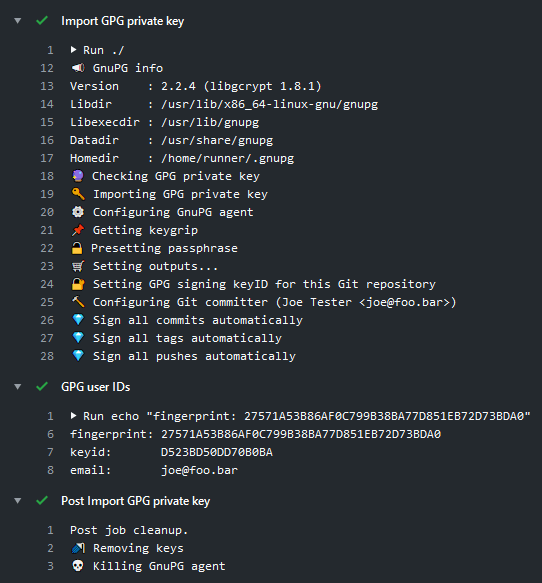
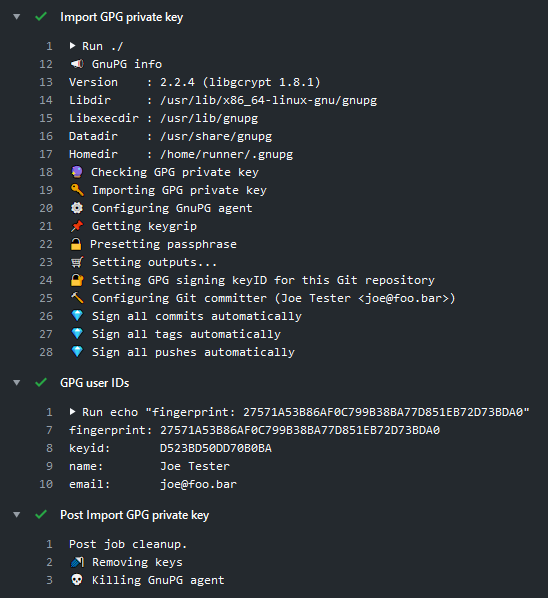
Update CHANGELOG

Changed region(s): [[0.059, 0.0, 0.9742, 0.988], [0.059, 0.0, 0.0886, 0.0617]]

diff --git a/CHANGELOG.md b/CHANGELOG.md
@@ -1,5 +1,10 @@
 # Changelog
 
+## 2.0.0 (2020/05/13)
+
+* Use GPG key name/email as default values (#13)
+* Centralize test key/passphrase
+
 ## 1.4.2 (2020/05/11)
 
 * Clean code
